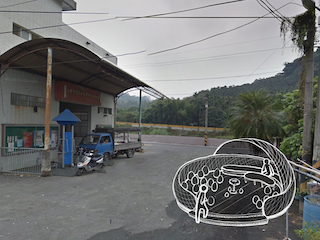
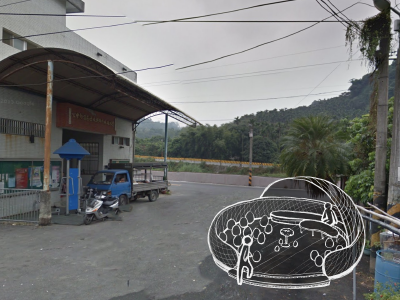
update map images

diff --git a/scss/main.css b/scss/main.css
@@ -474,6 +474,32 @@ div.custom-tooltip span {
   line-height: 10vh;
 }
 
+@-webkit-keyframes dialog-fadeout {
+  0% {
+    opacity: 0;
+    -webkit-transform: scale(0.6);
+            transform: scale(0.6);
+  }
+  100% {
+    opacity: 1;
+    -webkit-transform: scale(1);
+            transform: scale(1);
+  }
+}
+
+@keyframes dialog-fadeout {
+  0% {
+    opacity: 0;
+    -webkit-transform: scale(0.6);
+            transform: scale(0.6);
+  }
+  100% {
+    opacity: 1;
+    -webkit-transform: scale(1);
+            transform: scale(1);
+  }
+}
+
 .dialog {
   display: none;
   position: fixed;
@@ -504,6 +530,8 @@ div.custom-tooltip span {
   max-width: 90%;
   text-align: left;
   background: #fff;
+  -webkit-animation: dialog-fadeout .3s;
+          animation: dialog-fadeout .3s;
 }
 
 .dialog .dialog-content .btn-x {
@@ -520,6 +548,7 @@ div.custom-tooltip span {
 
 .btn-audio {
   position: fixed;
+  z-index: 100;
   bottom: 40px;
   left: 40px;
   width: 60px;
@@ -1297,6 +1326,7 @@ div.custom-tooltip span {
 
 .page-map .details {
   position: absolute;
+  z-index: 100;
   left: 60%;
   top: 20%;
 }
@@ -1315,10 +1345,14 @@ div.custom-tooltip span {
 }
 
 .page-map .details .detail-heart .img {
-  width: 320px;
-  height: 240px;
+  width: 400px;
+  height: 300px;
   border-radius: 16px;
   background-size: contain;
+  -webkit-transform-origin: right top;
+          transform-origin: right top;
+  -webkit-transition: .3s;
+  transition: .3s;
 }
 
 .page-map .details .detail-heart .img-11 {
@@ -1337,6 +1371,11 @@ div.custom-tooltip span {
   background-image: url("../images/map/14.png");
 }
 
+.page-map .details .detail-heart .img:hover {
+  -webkit-transform: scale(2);
+          transform: scale(2);
+}
+
 .page-map .details .detail-heart .intro {
   padding-top: 20px;
 }
@@ -1347,17 +1386,20 @@ div.custom-tooltip span {
 }
 
 .page-map .details .detail-nite > li {
-  margin: 20px;
-  padding-left: 40px;
+  margin: 20px 0 20px 20px;
 }
 
 .page-map .details .detail-nite .img {
   display: inline-block;
   vertical-align: middle;
-  width: 320px;
-  height: 240px;
+  width: 400px;
+  height: 300px;
   border-radius: 16px;
   background-size: contain;
+  -webkit-transform-origin: right top;
+          transform-origin: right top;
+  -webkit-transition: .3s;
+  transition: .3s;
 }
 
 .page-map .details .detail-nite .img-21 {
@@ -1376,6 +1418,11 @@ div.custom-tooltip span {
   background-image: url("../images/map/24.png");
 }
 
+.page-map .details .detail-nite .img:hover {
+  -webkit-transform: scale(2);
+          transform: scale(2);
+}
+
 .page-map .details .detail-nite .img-22, .page-map .details .detail-nite .img-23 {
   width: 240px;
   height: 180px;
@@ -1387,49 +1434,57 @@ div.custom-tooltip span {
 }
 
 .page-map .details .detail-exp > li {
-  margin: 20px;
-  padding-left: 40px;
+  margin: 20px 0 20px 20px;
 }
 
 .page-map .details .detail-exp .img {
   display: inline-block;
   vertical-align: middle;
-  width: 320px;
-  height: 240px;
+  width: 400px;
+  height: 300px;
   border-radius: 16px;
   background-size: contain;
+  -webkit-transform-origin: right top;
+          transform-origin: right top;
+  -webkit-transition: .3s;
+  transition: .3s;
 }
 
 .page-map .details .detail-exp .img-31 {
-  background-image: url("../images/map/31.jpg");
+  background-image: url("../images/map/31.png");
 }
 
 .page-map .details .detail-exp .img-32 {
-  background-image: url("../images/map/32.jpg");
+  background-image: url("../images/map/32.png");
 }
 
 .page-map .details .detail-exp .img-33 {
-  background-image: url("../images/map/33.jpg");
+  background-image: url("../images/map/33.png");
 }
 
 .page-map .details .detail-exp .img-34 {
-  background-image: url("../images/map/34.jpg");
+  background-image: url("../images/map/34.png");
 }
 
 .page-map .details .detail-exp .img-35 {
-  background-image: url("../images/map/35.jpg");
+  background-image: url("../images/map/35.png");
 }
 
 .page-map .details .detail-exp .img-36 {
-  background-image: url("../images/map/36.jpg");
+  background-image: url("../images/map/36.png");
 }
 
 .page-map .details .detail-exp .img-37 {
-  background-image: url("../images/map/37.jpg");
+  background-image: url("../images/map/37.png");
 }
 
 .page-map .details .detail-exp .img-38 {
-  background-image: url("../images/map/38.jpg");
+  background-image: url("../images/map/38.png");
+}
+
+.page-map .details .detail-exp .img:hover {
+  -webkit-transform: scale(2);
+          transform: scale(2);
 }
 
 .page-map .details .detail-exp .img-31, .page-map .details .detail-exp .img-32 {
@@ -1440,6 +1495,21 @@ div.custom-tooltip span {
 .page-map .details .detail-exp .intro h5 {
   font-size: 22px;
   line-height: 2.2;
+}
+
+.page-map .details .detail-info .intro {
+  padding-top: 200px;
+}
+
+.page-map .details .detail-info .intro h5 {
+  font-size: 22px;
+  line-height: 2.2;
+}
+
+.page-map .details .detail-info .intro ol {
+  list-style: disc;
+  padding: 0 0 0 2em;
+  line-height: 1.2;
 }
 
 .page-bird {

diff --git a/scss/index/_map.scss b/scss/index/_map.scss
@@ -507,6 +507,7 @@
 
     .details {
         position: absolute;
+        z-index: 100;
         left: 60%;
         top: 20%;
         .detail {
@@ -522,14 +523,19 @@
                 margin: 20px 0 0 50px;
             }
             .img {
-                width: 320px;
-                height: 240px;
+                width: 400px;
+                height: 300px;
                 border-radius: 16px;
                 background-size: contain;
+                transform-origin: right top;
+                transition: .3s;
                 @for $i from 11 through 14 {
                     &-#{$i} {
                         background-image: url('../images/map/#{$i}.png');
                     }
+                }
+                &:hover {
+                    transform: scale(2);
                 }
             }
             .intro {
@@ -543,20 +549,24 @@
 
         .detail-nite {
             >li {
-                margin: 20px;
-                padding-left: 40px; 
+                margin: 20px 0 20px 20px;
             }
             .img {
                 display: inline-block;
                 vertical-align: middle;
-                width: 320px;
-                height: 240px;
+                width: 400px;
+                height: 300px;
                 border-radius: 16px;
                 background-size: contain;
+                transform-origin: right top;
+                transition: .3s;
                 @for $i from 21 through 24 {
                     &-#{$i} {
                         background-image: url('../images/map/#{$i}.png');
                     }
+                }
+                &:hover {
+                    transform: scale(2);
                 }
                 &-22,
                 &-23 {
@@ -574,20 +584,24 @@
         
         .detail-exp {
             >li {
-                margin: 20px;
-                padding-left: 40px; 
+                margin: 20px 0 20px 20px;
             }
             .img {
                 display: inline-block;
                 vertical-align: middle;
-                width: 320px;
-                height: 240px;
+                width: 400px;
+                height: 300px;
                 border-radius: 16px;
                 background-size: contain;
+                transform-origin: right top;
+                transition: .3s;
                 @for $i from 31 through 38 {
                     &-#{$i} {
-                        background-image: url('../images/map/#{$i}.jpg');
+                        background-image: url('../images/map/#{$i}.png');
                     }
+                }
+                &:hover {
+                    transform: scale(2);
                 }
                 &-31,
                 &-32 {
@@ -599,6 +613,21 @@
                 h5 {
                     font-size: 22px;
                     line-height: 2.2;
+                }
+            }
+        }
+
+        .detail-info {
+            .intro {
+                padding-top: 200px;
+                h5 {
+                    font-size: 22px;
+                    line-height: 2.2;
+                }
+                ol {
+                    list-style: disc;
+                    padding: 0 0 0 2em;
+                    line-height: 1.2;
                 }
             }
         }

diff --git a/index.html b/index.html
@@ -333,7 +333,7 @@
                     </ul>
 
                     <ul id="marks-info" class="marks marks-info">
-                        <li class="mark mark-1">
+                        <li class="mark mark-1" onclick="mapmark('41')">
                             <svg class="icon-pin info">
                                 <use xlink:href="#icon-pin" />
                             </svg>
@@ -448,6 +448,21 @@
                                 <div class="intro">
                                     <h5>DIY體驗農產品摘種</h5>
                                     <p>藉由湖本當地居民的困擾以活動形式解決問題，達到宣傳湖本及滿足當地居民期望，主要活動場域以柳丁園為主，並結合摘柳丁與趕猴活動，同時幫助柳丁農民消滅猴災。</p>
+                                </div>
+                            </li>
+                        </ul>
+                        <ul id="detail-info" class="detail detail-info">
+                            <li id="detail-41">
+                                <div class="img img-41"></div>
+                                <div class="intro">
+                                    <h5>湖本生態合作社</h5>
+                                    <ol>
+                                        <li>營業時間：上午9:00 - 下午5:00（每週二、三店休）</li>
+                                        <li>每年僅5-6月份，提供尋找八色鳥的服務(預約付費導覽)</li>
+                                        <li>接受個人或團體生態解說導覽服務(預約付費導覽)</li>
+                                        <li>提供並協助林內地區遊程建議與規劃服務</li>
+                                        <li>歡迎來電05-5890375</li>
+                                    </ol>
                                 </div>
                             </li>
                         </ul>

diff --git a/scss/main.scss b/scss/main.scss
@@ -151,6 +151,10 @@
 }
 
 
+@keyframes dialog-fadeout {
+    0% { opacity: 0; transform: scale(.6) }
+    100% { opacity: 1; transform: scale(1) }
+}
 
 .dialog {
     display: none;
@@ -178,6 +182,7 @@
         max-width: 90%;
         text-align: left;
         background: #fff;
+        animation: dialog-fadeout .3s;
         .btn-x {
             position: absolute;
             top: -20px;
@@ -195,6 +200,7 @@
 
 .btn-audio {
     position: fixed;
+    z-index: 100;
     bottom: 40px;
     left: 40px;
     width: 60px;

diff --git a/js/main.js b/js/main.js
@@ -132,7 +132,7 @@ function checkButtonActive() {
 // page-map
 
 
-const mapCodes = [11, 12, 13, 14, 21, 22, 23, 24, 31, 32, 33, 34, 35, 36, 37];
+const mapCodes = [11, 12, 13, 14, 21, 22, 23, 24, 31, 32, 33, 34, 35, 36, 37, 41];
 
 function maptrans() {
     document.getElementById('page-map').classList.add('trans');
